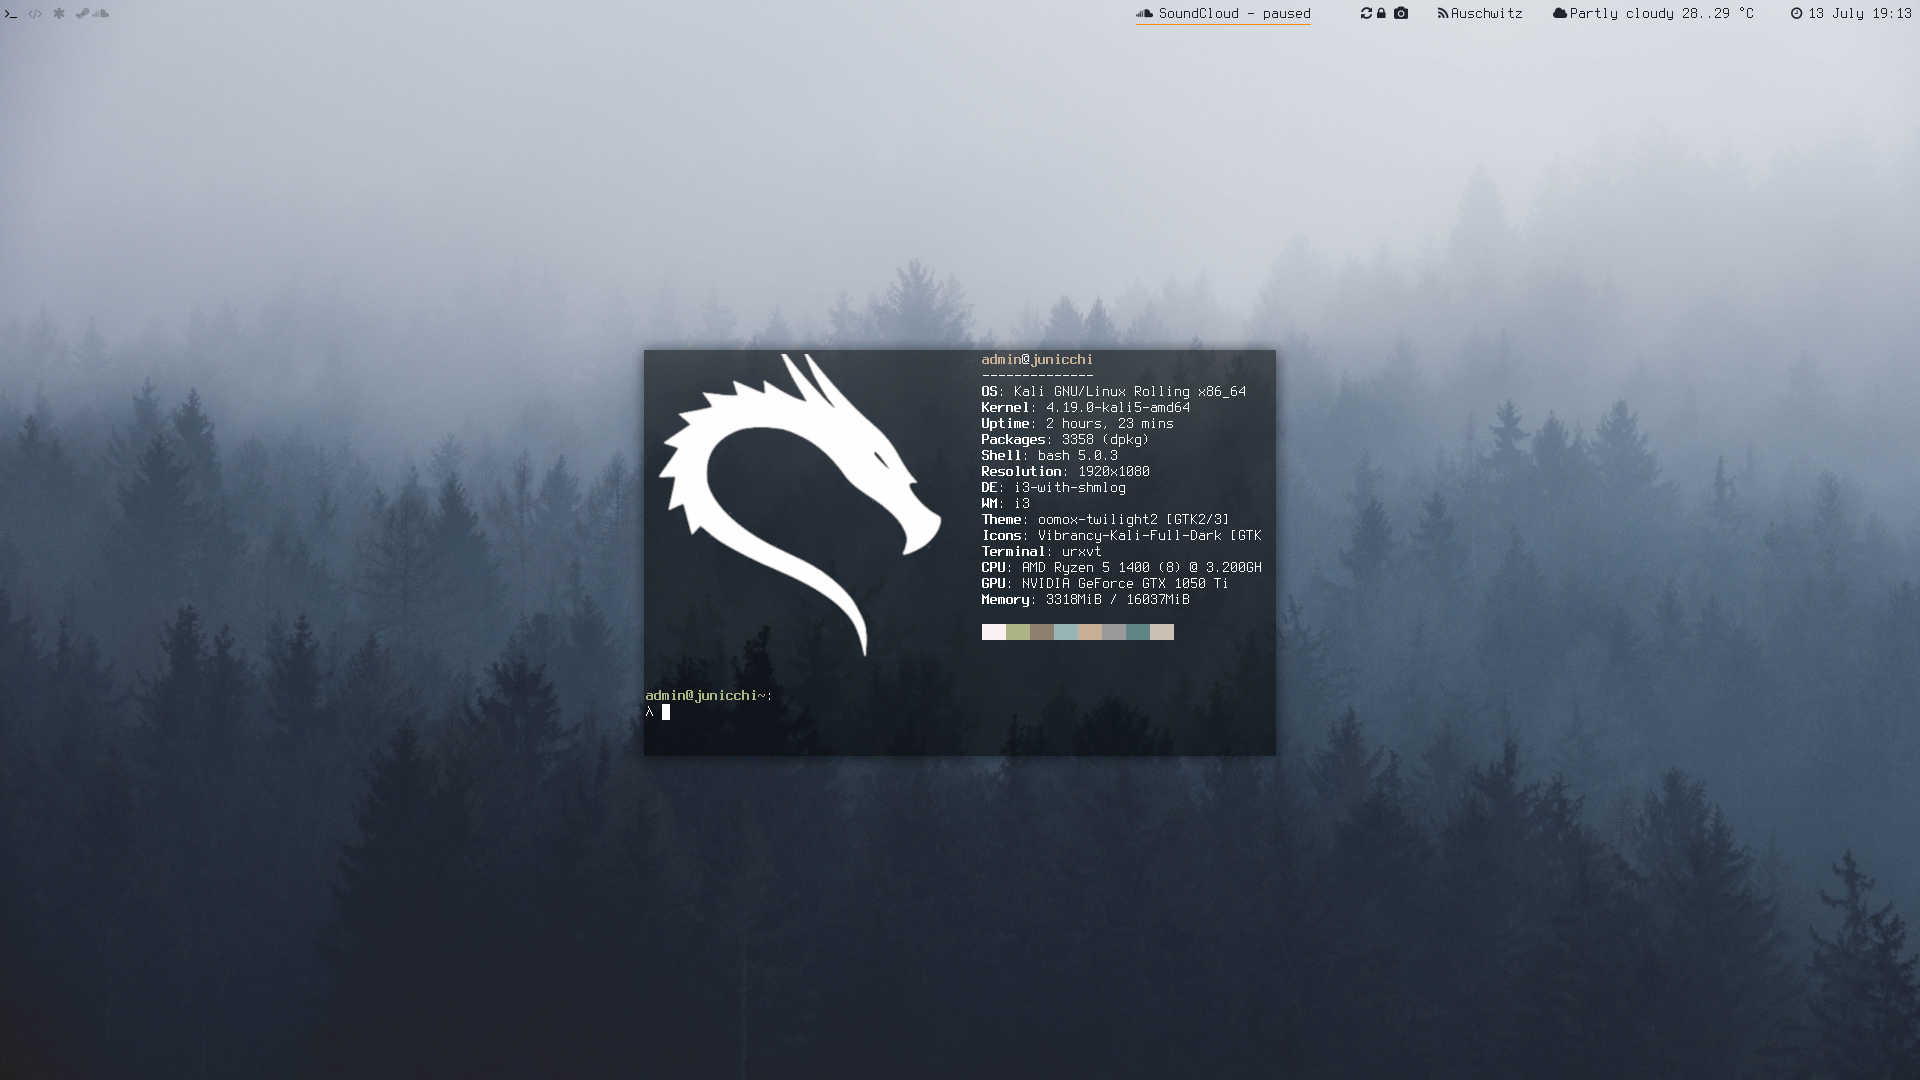
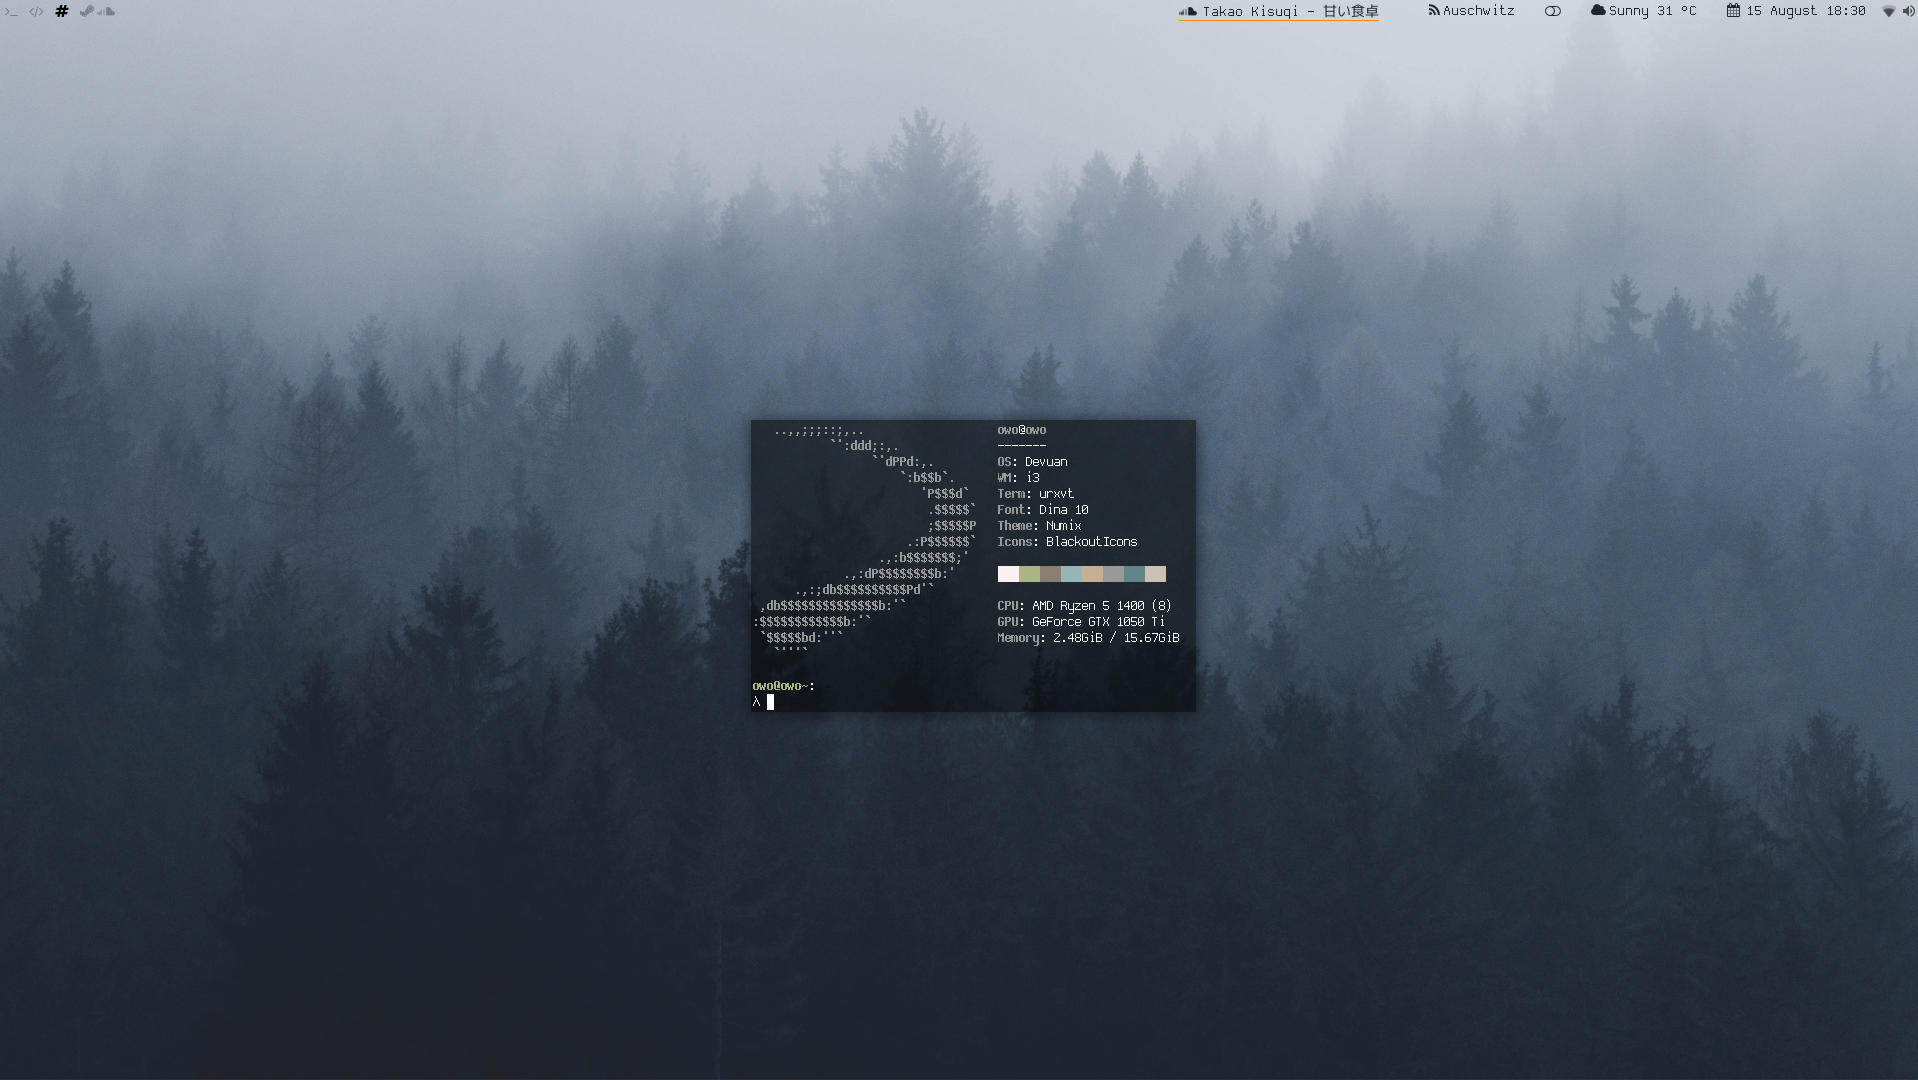
new scrots and config

diff --git a/README.md b/README.md
@@ -1,25 +1,21 @@
 # Junicchi's Linux Rice
+using same rice on kali, d*bian and devuan. this repo is mostly my dump but also has some innovative and useful stuff.
 ![Single](Screenshots/rice_0.png)
 
 
-## Preferences
+## What's new?
  - Current playing souncloud track to status bar [script](https://github.com/KebabLord/dotfiles/blob/master/i3/scripts/soundcloud)
  - Gaps Mode, which you can easily manage inner/outer/vertical/horizontal gaps and switch between gaps profiles
- - Disable steam news popup
- - Keep an urxvt and nutilus dropdown in background
- - A full transparent minimal bar
- - Characters rather than numbers as workspace names with static sequance
- - [Bash aliases](https://github.com/KebabLord/dotfiles/blob/master/.bash_aliases) with handy functions
+ - A full transparent minimal bar with characters rather than numbers as workspace names with static sequance.
+ - [Bash aliases](https://github.com/KebabLord/dotfiles/blob/master/.bash_aliases) full of shit functions and a terminal/explorer dropdowns in background 
 
 ![CurrentTrack](Screenshots/sc.png)
 ![Modes](Screenshots/modes.png)
 
-## Other dotfiles
- - Rofi theme, mosaic screen locker script
- - Compton config for window shadows and soft transition effect
- - Xresources and Xdefautls for terminal (urxvt) colors
- - Sublime text keybindings and config
- - Qutebrowser custom search methods
+# Slim Lock Screen
+![Slim theme](slim/preview.png)
+selects a random ascii art everytime, here is the list: 
+![List of ascii arts](slim/ascii_list.png)
 
 ## Other Screenshots
  ![Single](Screenshots/rice_1.png)
